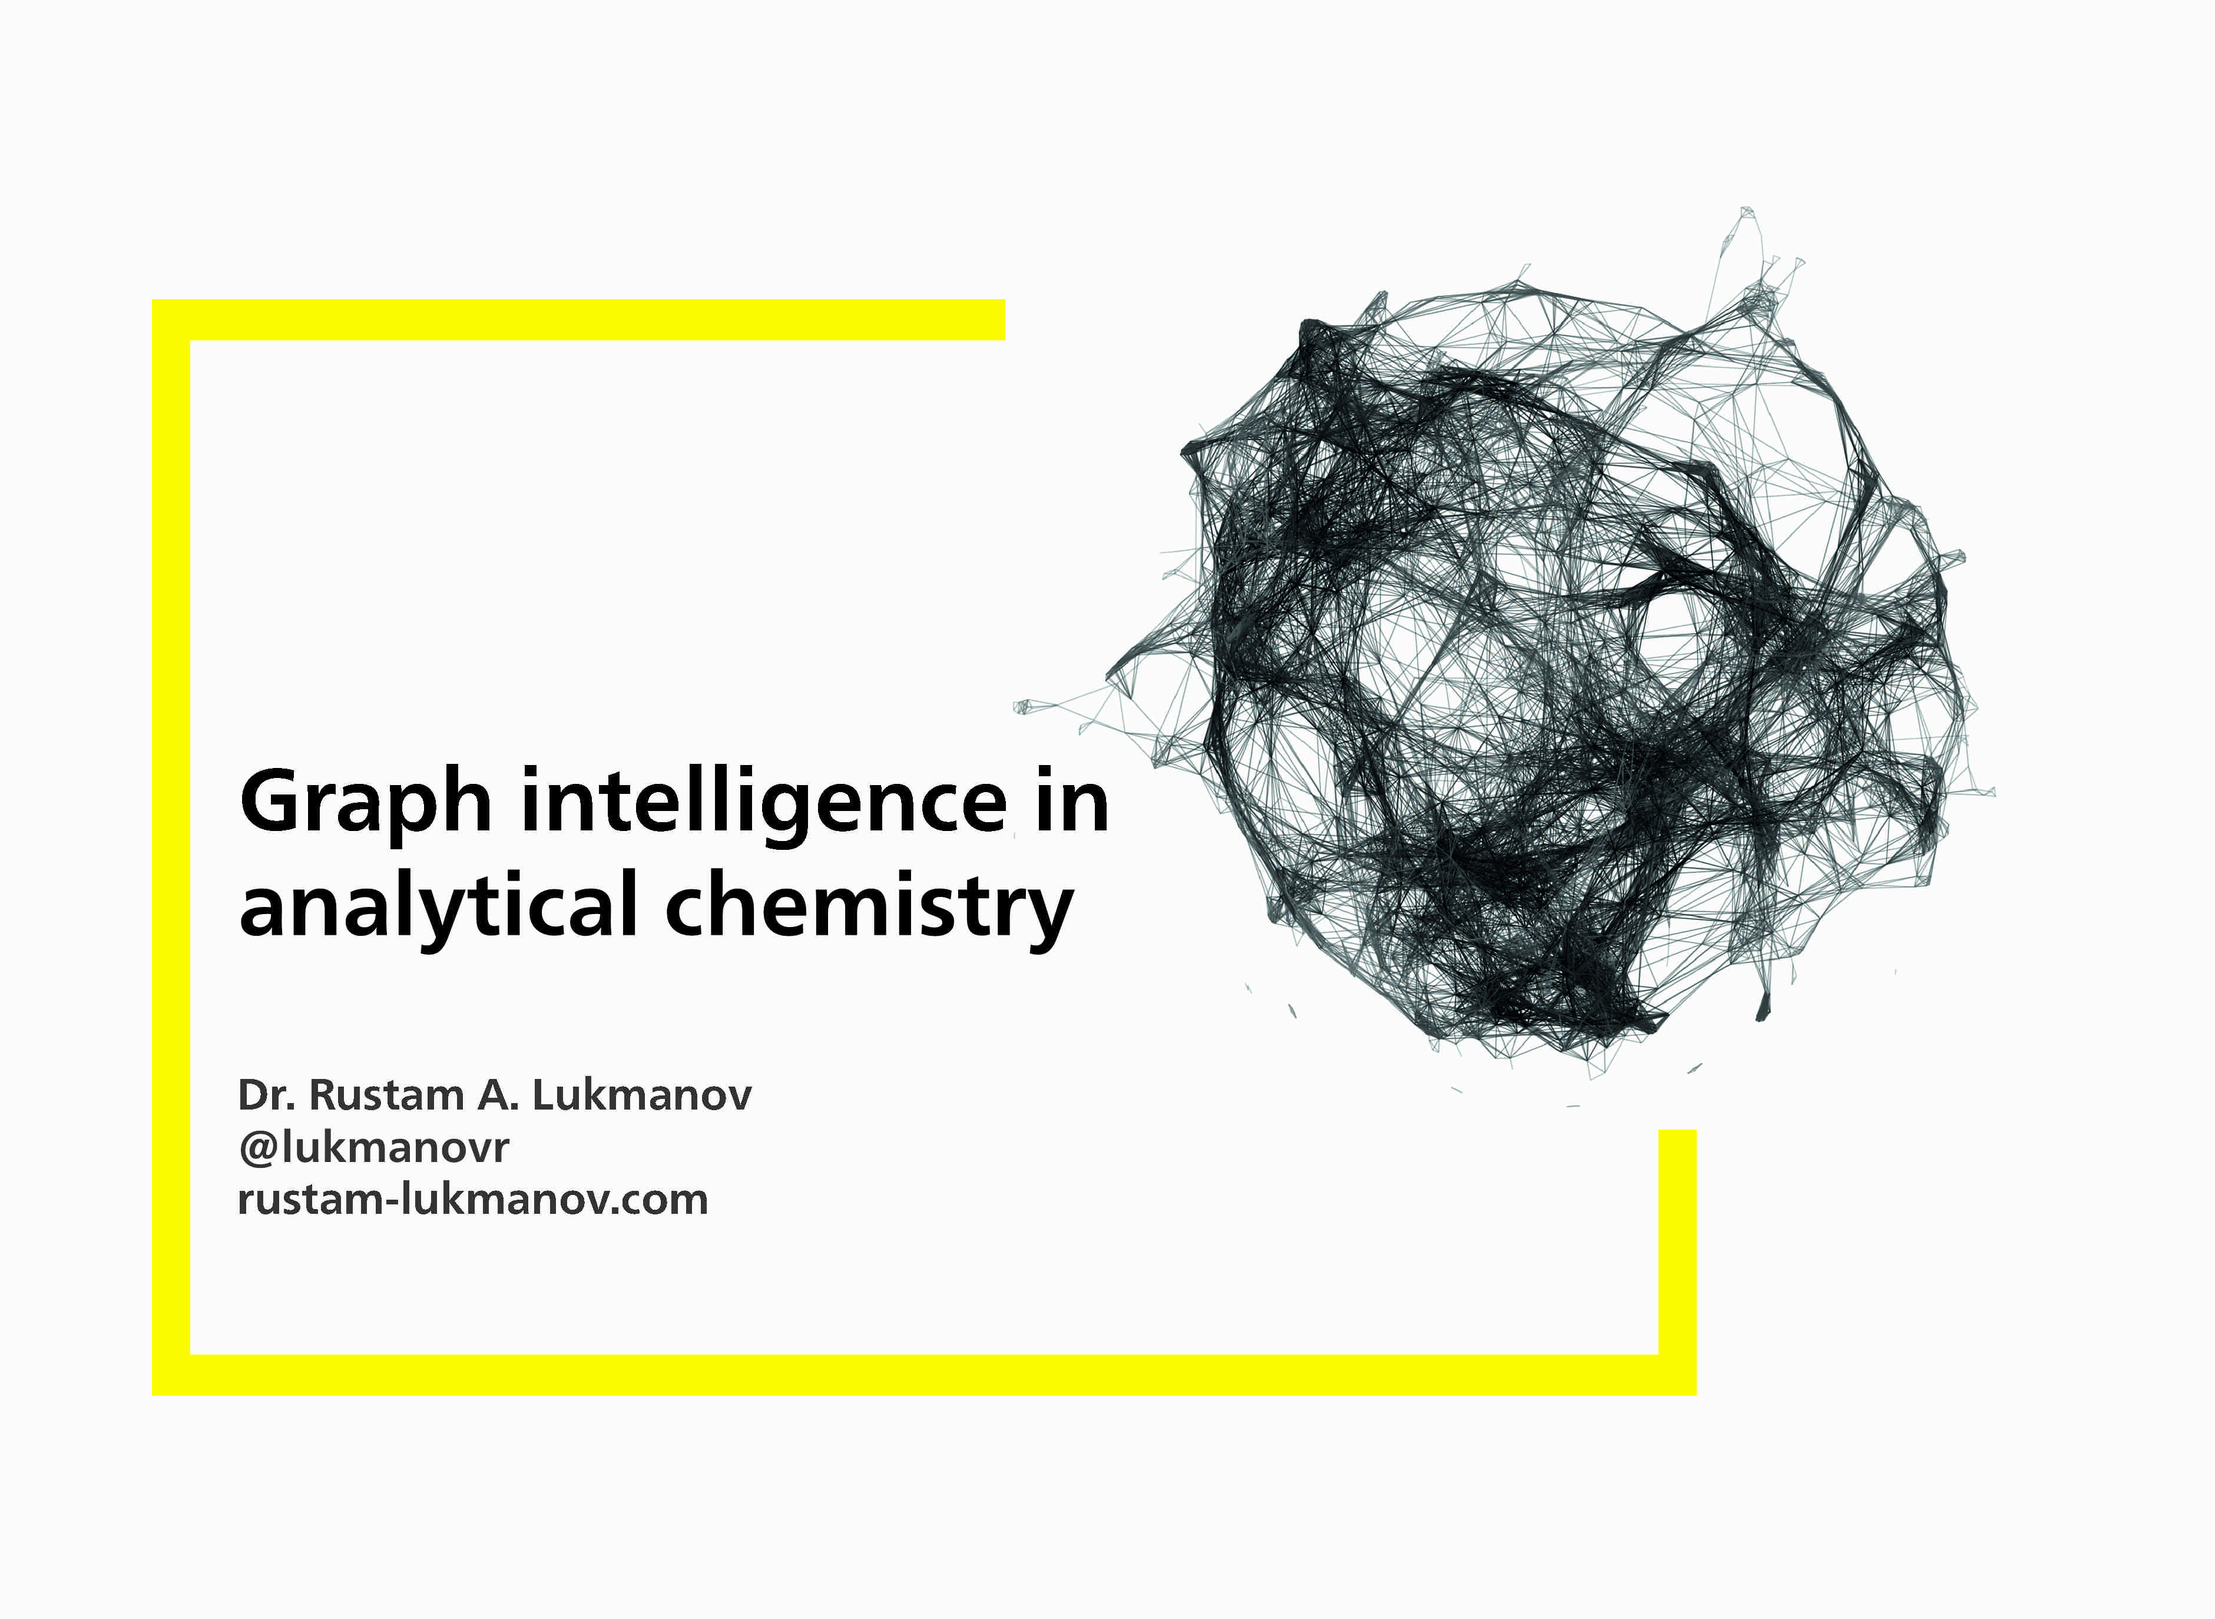
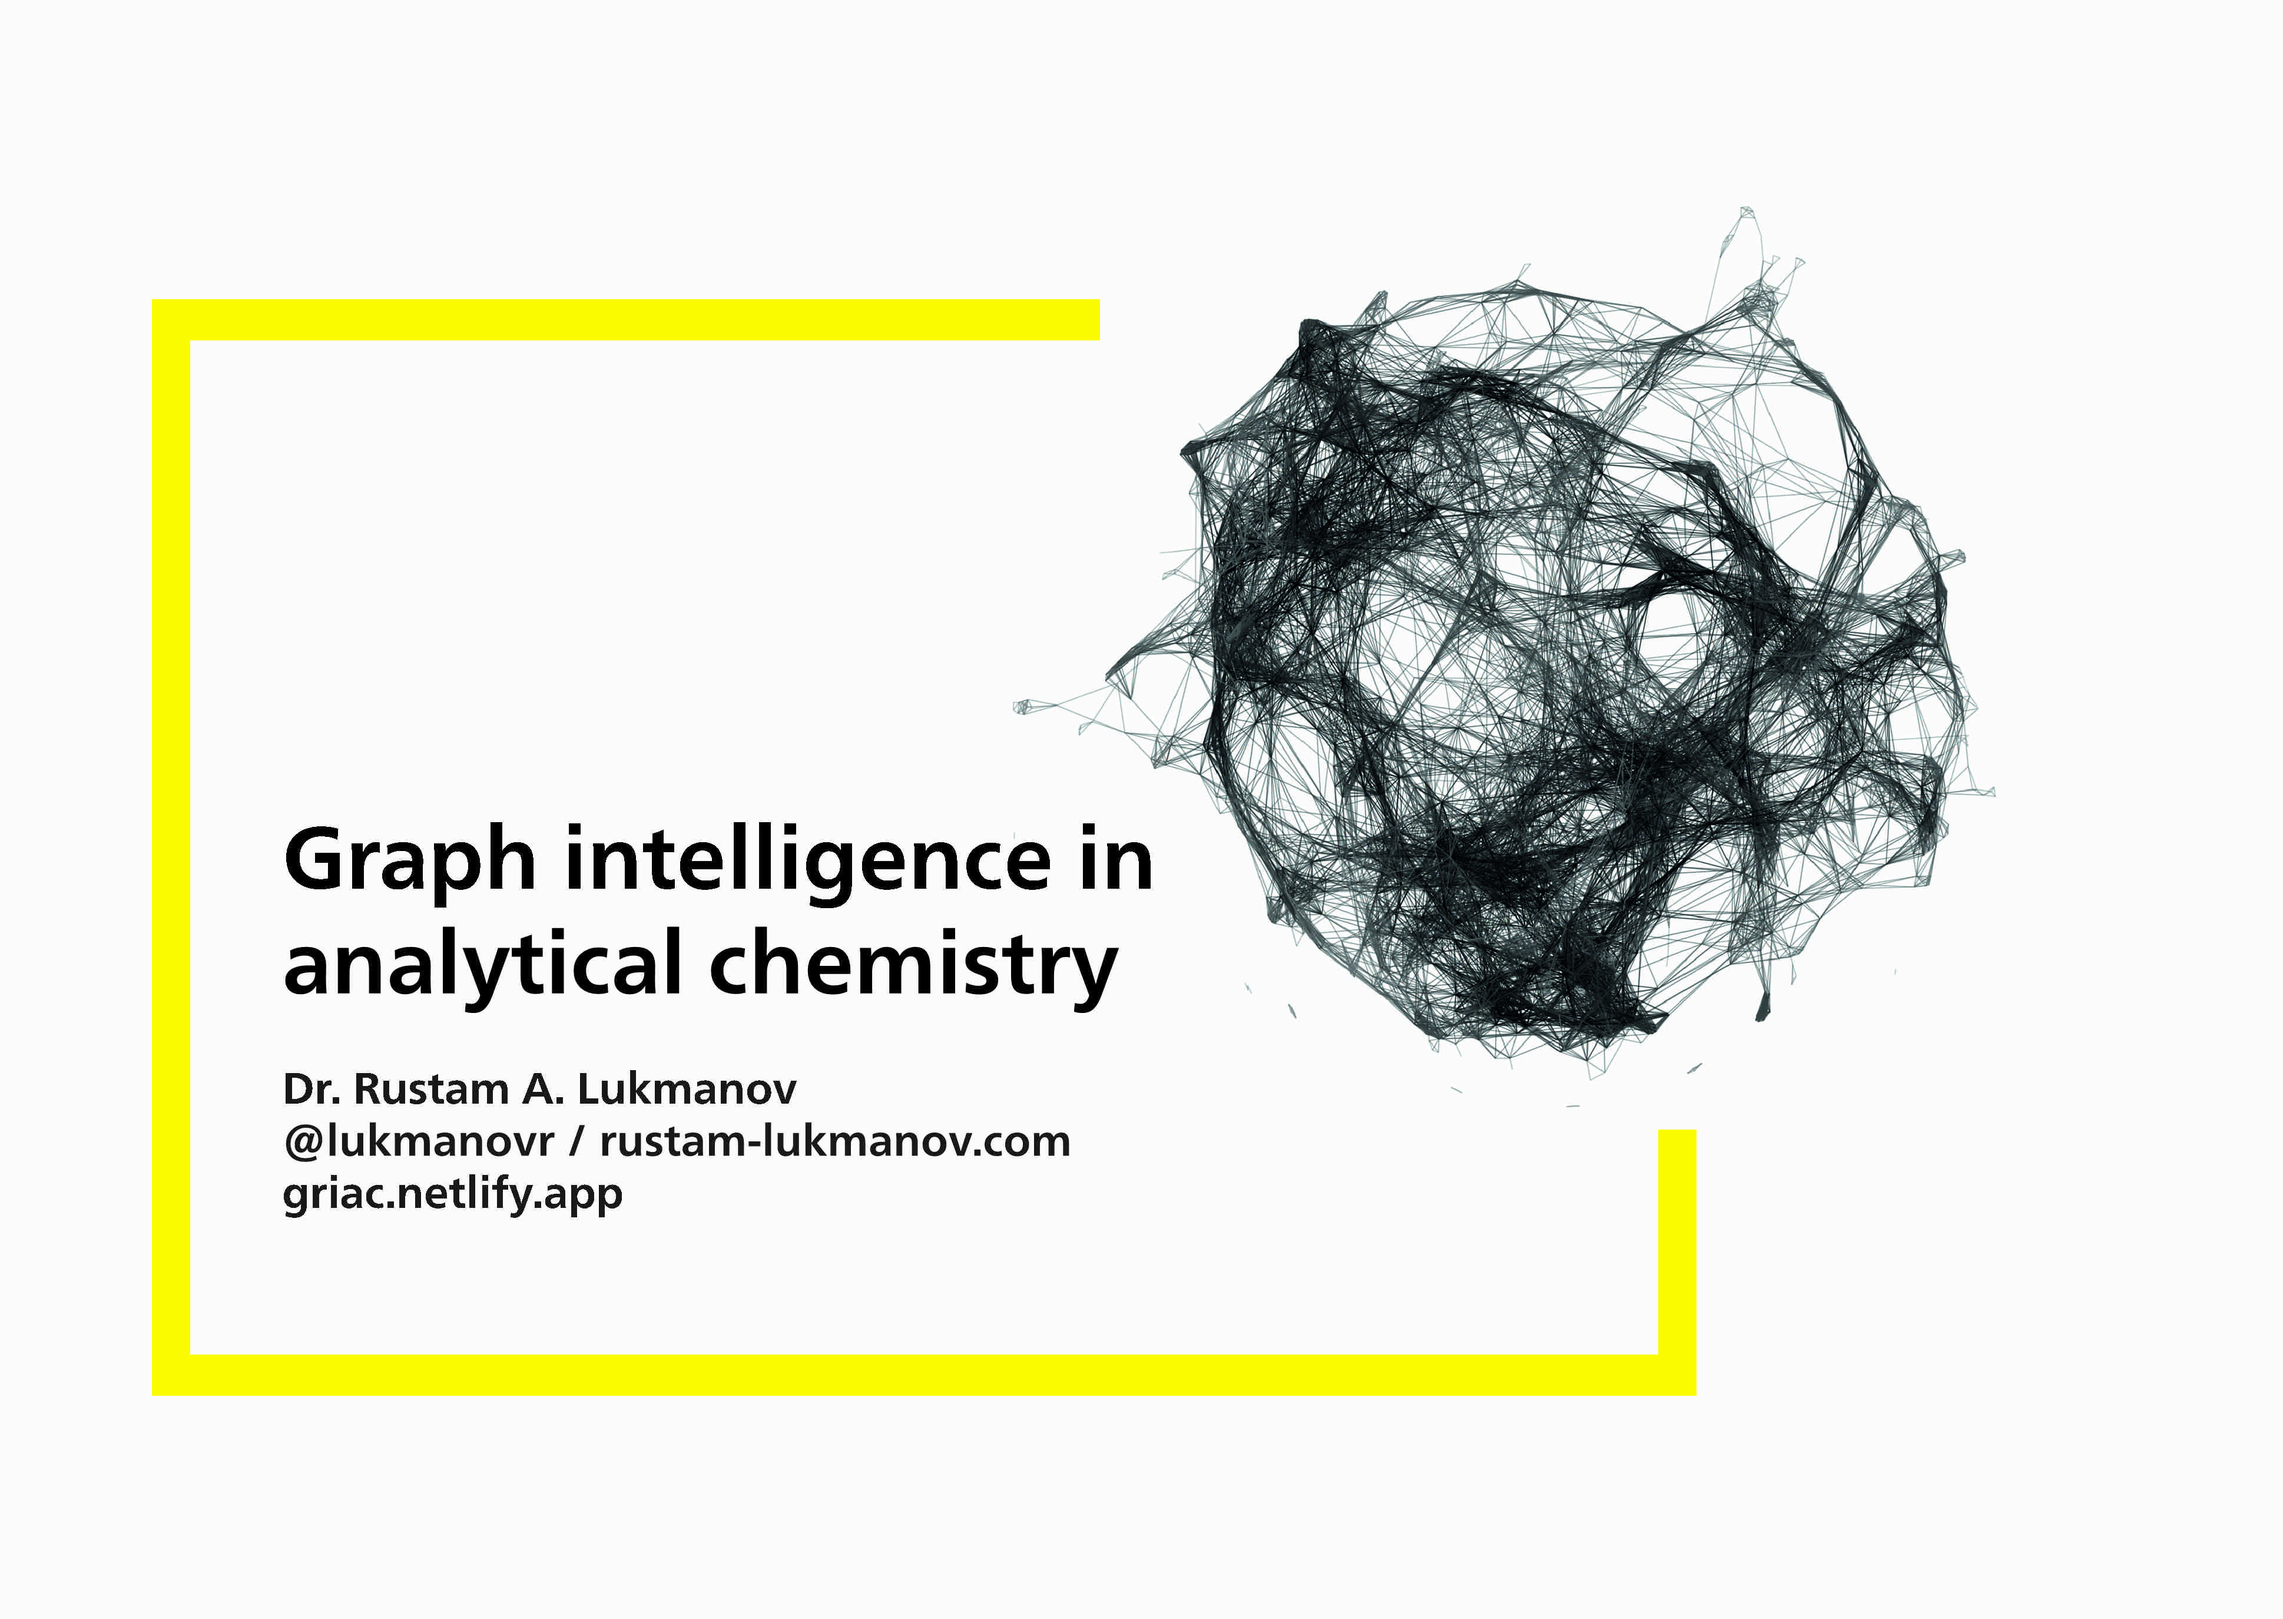
finished_presentation

Changed region(s): [[0.0622, 0.1237, 0.9022, 0.8348], [0.7155, 0.6802, 0.7777, 0.8658], [0.4355, 0.1855, 0.4977, 0.2164]]

diff --git a/content/_index.md b/content/_index.md
@@ -9,89 +9,228 @@ data-background-repeat="no-repeat">}}
 ---
 
 {{% section %}}
-{{< slide id="hello" background="#FFD" transition="slide" transition-speed="fast" >}}
+{{< slide id="hello" background="#e9692c" transition="slide" transition-speed="fast" >}}
 
-#### Graphs are everywhere, byt why?
-
-```python
-The earliest known paper in this field is the famous
-Seven Bridges of Königsberg written by Leonhard Euler in 1736.
-```
+#### Elephant in the room?
 
 ```python
 Most data is unstructured and unlabelled
 ```
 
 ```python
-Structural organization of observations/entities can be
-recovered and studied using graphs
+Conventional /AI/ applied to problems in experimental natural
+sciences, especially in **chemistry** provides high predictive
+capacity, but have little descriptive power (black-box models)
 ```
 
 ```javascript
-Predictions on unseen data can be generated on graphs directly
-or in the original data-domain using conventional "AI"
+So what to do when you do not know yourself labels of the data and
+even not sure about the quality, can it be relied upon?
 ```
 
 ---
 
-{{< slide id="hello" background="#FFF" transition="slide" transition-speed="fast" >}}
+{{< slide id="hello" background="#97cf8a" transition="zoom" transition-speed="fast" >}}
 
-#### Interpretability is a problem?
+#### Human tools for the data age?
+
+<small><b>\*\*emphasis of the talk \*\*</b></small>
 
 ```python
-Conventional "AI" applied to problems in experimental natural
-sciences, especially in chemistry provides high predictive
-capacity, but have very little descriptive power
-```
-
-```markdown
-What to do when you don't know yourself which
-data can be relied upon?
+Visual interactive graph intelligence build on complex data for
+particular need of scientists vs. general exploratory data analysis
 ```
 
 ```python
-Black box AI is any artificial intelligence system whose
-inputs and operations are not visible to the user or
-another interested party
-```
-
-🤖🔬🔭
-
----
-
-{{< slide id="hello" background="#FFD" transition="zoom" transition-speed="fast" >}}
-
-#### Human tools are still valuable?
-
-```python
-Visual graph intelligence with your big or complex data?
-Can It automatically transforms your data into interactive,
-visual maps built for the needs of analysts
+Combination of data-viz and machine learning
 ```
 
 {{% /section %}}
 
 ---
 
-{{< slide background-image="slide_2.jpg" background="#FFD"
-data-background-size="contain"
-data-background-repeat="no-repeat" >}}
+{{< slide id="hello" background="#4A686A" transition="zoom" transition-speed="fast" >}}
+
+#### Outline
+
+```python
+def intro (instrument, lab_prototype)
+```
+
+```python
+def data (spectra, spectral_preprocessing)
+```
+
+```python
+def results (embeddings, ML and graphs)
+```
+
+```python
+def conclusions (summarize)
+```
 
 ---
 
 {{< slide background-image="slide_3.jpg" background="#FFD"
 data-background-size="contain"
-data-background-repeat="no-repeat" >}}
+data-background-repeat="no-repeat"
+transition="slide" >}}
 
 ---
 
 {{< slide background-image="slide_4.jpg" background="#FFD"
 data-background-size="contain"
-data-background-repeat="no-repeat" >}}
+data-background-repeat="no-repeat"
+transition="slide" >}}
+
+---
+
+{{< slide id="hello" background="#fccf55" transition="zoom" transition-speed="fast" >}}
+
+#### Outline
+
+```python
+def data (spectra, spectral_preprocessing)
+```
 
 ---
 
 {{< slide background-image="slide_5.jpg" background="#FFD" data-background-size="contain"
-data-background-repeat="no-repeat" >}}
+data-background-repeat="no-repeat"
+transition-speed="fast"
+transition="slide" >}}
+
+---
+
+{{< slide background-image="slide_6.jpg" background="#FFD" data-background-size="contain"
+data-background-repeat="no-repeat"
+transition-speed="fast"
+transition="slide" >}}
+
+---
+
+{{< slide background-image="slide_7.jpg" background="#FFD" data-background-size="contain"
+data-background-repeat="no-repeat"
+transition-speed="fast"
+transition="slide" >}}
+
+---
+
+{{< slide id="hello" background="#fccf55" transition="zoom" transition-speed="fast" >}}
+
+#### Outline
+
+```python
+def results (embeddings, ML and graphs)
+```
+
+---
+
+{{< slide background-image="slide_8.jpg" background="#FFD" data-background-size="contain"
+data-background-repeat="no-repeat"
+transition-speed="fast"
+transition="slide" >}}
+
+---
+
+{{< slide background-image="slide_9.jpg" background="#FFD" data-background-size="contain"
+data-background-repeat="no-repeat"
+transition="slide"
+transition-speed="fast" >}}
+
+---
+
+{{< slide background-image="slide_10.jpg" background="#FFD" data-background-size="contain"
+data-background-repeat="no-repeat"
+transition="slide"
+transition-speed="fast" >}}
+
+---
+
+{{< slide background-image="slide_11.jpg" background="#FFD" data-background-size="contain"
+data-background-repeat="no-repeat"
+transition="slide"
+transition-speed="fast" >}}
+
+---
+
+{{< slide background-image="slide_11-2.jpg" background="#FFD" data-background-size="contain"
+data-background-repeat="no-repeat"
+transition="slide"
+transition-speed="fast" >}}
+
+---
+
+{{< slide background-image="slide_12.jpg" background="#FFD" data-background-size="contain"
+data-background-repeat="no-repeat"
+transition="slide"
+transition-speed="fast" >}}
+
+---
+
+{{< slide background-image="slide_13.jpg" background="#FFD" data-background-size="contain"
+data-background-repeat="no-repeat"
+transition="slide"
+transition-speed="fast" >}}
+
+---
+
+{{< slide background-image="slide_14.jpg" background="#FFD" data-background-size="contain"
+data-background-repeat="no-repeat"
+transition="slide"
+transition-speed="fast" >}}
+
+---
+
+{{< slide background-image="slide_15.jpg" background="#FFD" data-background-size="contain"
+data-background-repeat="no-repeat"
+transition="slide"
+transition-speed="fast" >}}
+
+---
+
+{{< slide background-image="slide_16.jpg" background="#FFD" data-background-size="contain"
+data-background-repeat="no-repeat"
+transition="slide"
+transition-speed="fast" >}}
+
+---
+
+{{< slide background-image="slide_17.jpg" background="#FFD" data-background-size="contain"
+data-background-repeat="no-repeat"
+transition="slide"
+transition-speed="fast" >}}
+
+---
+
+{{< slide background-image="slide_18.jpg" background="#FFD" data-background-size="contain"
+data-background-repeat="no-repeat"
+transition="slide"
+transition-speed="fast" >}}
+
+---
+
+{{< slide background-image="slide_19.jpg" background="#FFD" data-background-size="contain"
+data-background-repeat="no-repeat"
+transition="slide"
+transition-speed="fast" >}}
+
+---
+
+{{< slide background-image="slide_20.jpg" background="#FFD" data-background-size="contain"
+data-background-repeat="no-repeat"
+transition="slide"
+transition-speed="fast" >}}
+
+---
+
+{{< slide id="hello" background="#fccf55" transition="zoom" transition-speed="fast" >}}
+
+#### Conclusion
+
+```python
+def conclusion (graphs are informative and insightful
+while dealing with unstructured, large and complex data)
+```
 
 ---
